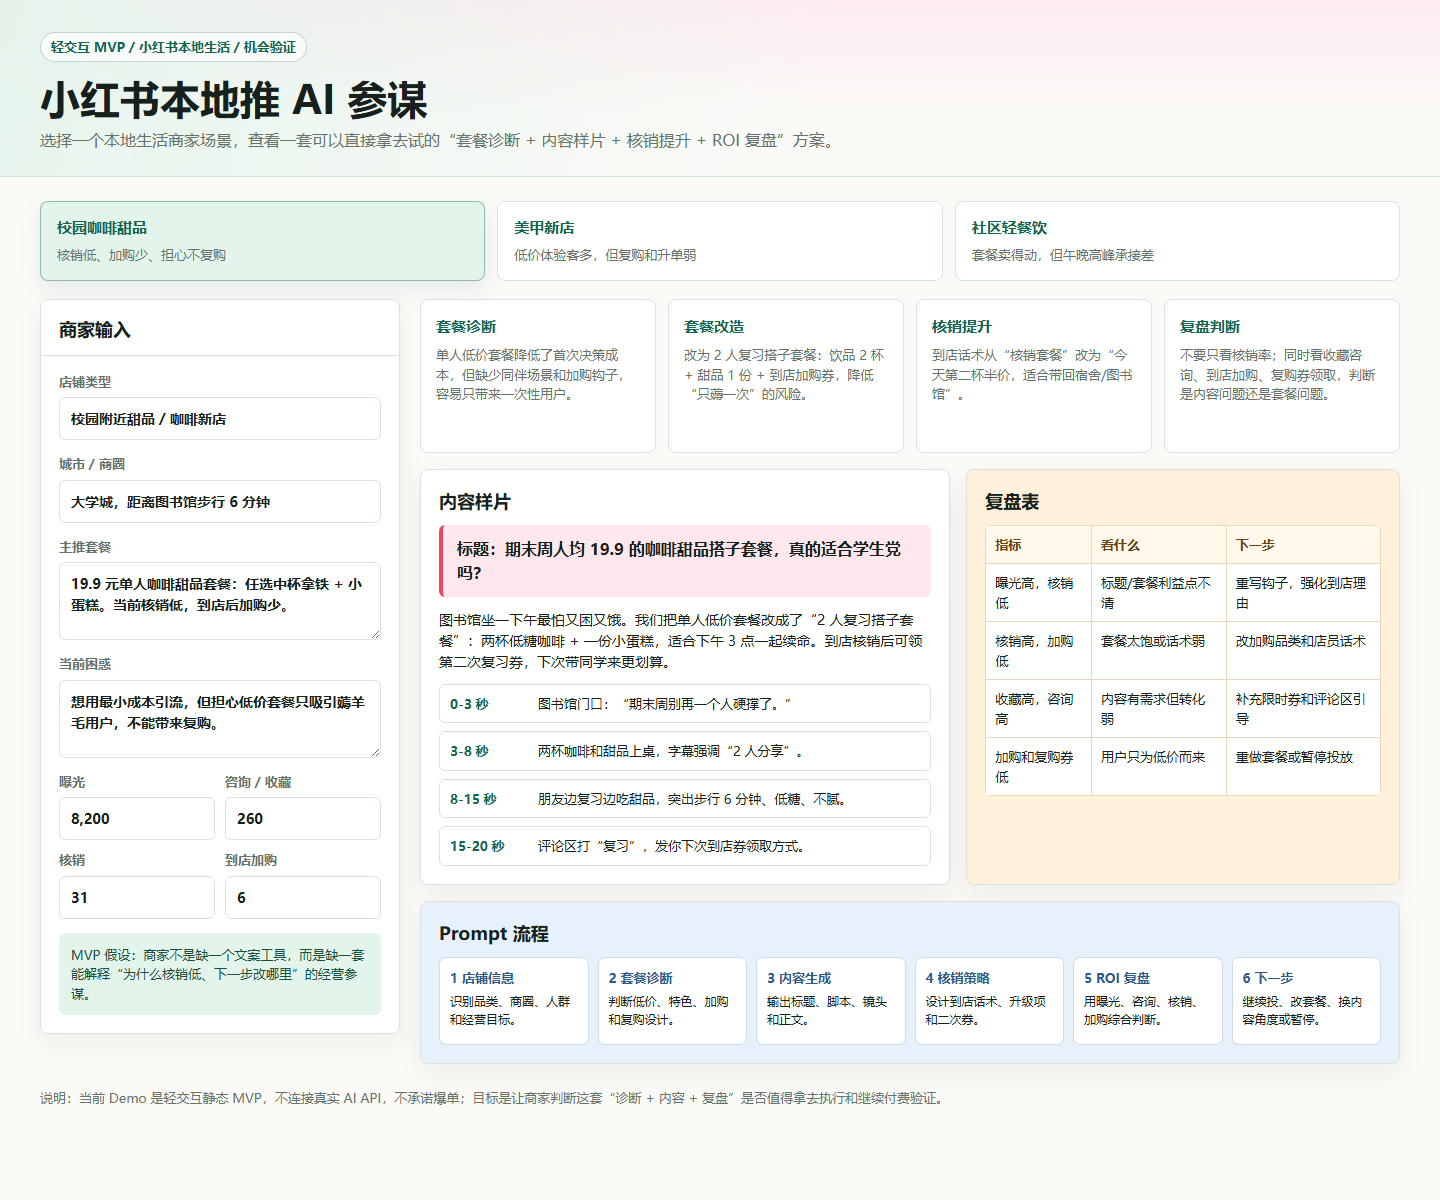
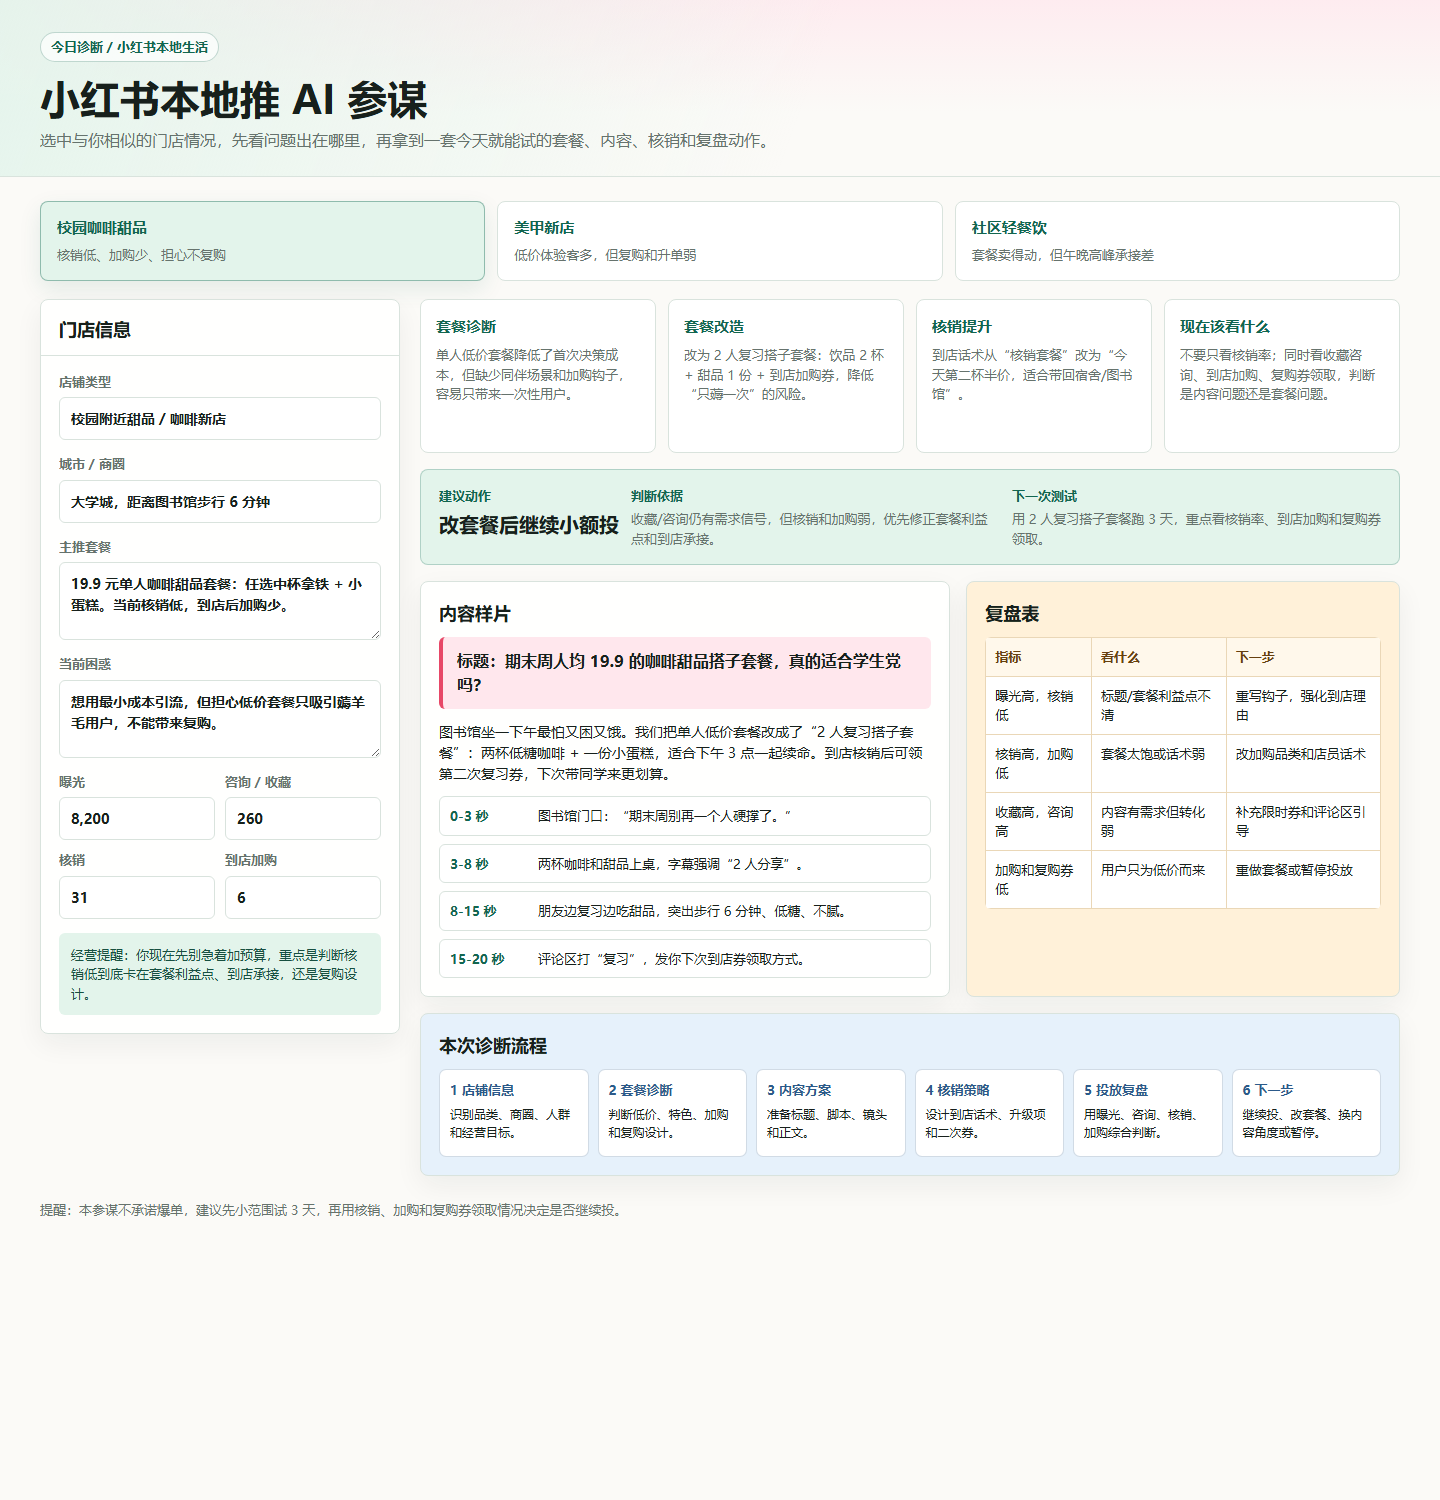
Make demo copy merchant-facing

diff --git a/demo.html b/demo.html
@@ -3,7 +3,7 @@
 <head>
   <meta charset="utf-8">
   <meta name="viewport" content="width=device-width, initial-scale=1">
-  <title>小红书本地推 AI 参谋 Demo</title>
+  <title>小红书本地推 AI 参谋</title>
   <style>
     * { box-sizing: border-box; }
     :root {
@@ -345,13 +345,13 @@
 </head>
 <body>
   <header>
-    <span class="kicker">轻交互 MVP / 小红书本地生活 / 机会验证</span>
+    <span class="kicker">今日诊断 / 小红书本地生活</span>
     <h1>小红书本地推 AI 参谋</h1>
-    <p class="sub">选择一个本地生活商家场景，查看一套可以直接拿去试的“套餐诊断 + 内容样片 + 核销提升 + ROI 复盘”方案。</p>
+    <p class="sub">选中与你相似的门店情况，先看问题出在哪里，再拿到一套今天就能试的套餐、内容、核销和复盘动作。</p>
   </header>
 
   <main>
-    <nav class="tabs" aria-label="商家案例">
+    <nav class="tabs" aria-label="门店场景">
       <button class="tab" data-case="coffee" aria-selected="true"><b>校园咖啡甜品</b><span>核销低、加购少、担心不复购</span></button>
       <button class="tab" data-case="nail" aria-selected="false"><b>美甲新店</b><span>低价体验客多，但复购和升单弱</span></button>
       <button class="tab" data-case="meal" aria-selected="false"><b>社区轻餐饮</b><span>套餐卖得动，但午晚高峰承接差</span></button>
@@ -359,7 +359,7 @@
 
     <section class="dashboard">
       <aside class="panel">
-        <h2>商家输入</h2>
+        <h2>门店信息</h2>
         <div class="form">
           <label>店铺类型
             <input id="storeType" readonly>
@@ -396,7 +396,7 @@
           <div class="card"><strong>套餐诊断</strong><p id="diagnosis"></p></div>
           <div class="card"><strong>套餐改造</strong><p id="packageFix"></p></div>
           <div class="card"><strong>核销提升</strong><p id="redeemFix"></p></div>
-          <div class="card"><strong>复盘判断</strong><p id="reviewLogic"></p></div>
+          <div class="card"><strong>现在该看什么</strong><p id="reviewLogic"></p></div>
         </div>
 
         <div class="decision">
@@ -423,20 +423,20 @@
         </div>
 
         <article class="panel workflow">
-          <h3>Prompt 流程</h3>
+          <h3>本次诊断流程</h3>
           <div class="steps">
             <div class="step"><b>1 店铺信息</b>识别品类、商圈、人群和经营目标。</div>
             <div class="step"><b>2 套餐诊断</b>判断低价、特色、加购和复购设计。</div>
-            <div class="step"><b>3 内容生成</b>输出标题、脚本、镜头和正文。</div>
+            <div class="step"><b>3 内容方案</b>准备标题、脚本、镜头和正文。</div>
             <div class="step"><b>4 核销策略</b>设计到店话术、升级项和二次券。</div>
-            <div class="step"><b>5 ROI 复盘</b>用曝光、咨询、核销、加购综合判断。</div>
+            <div class="step"><b>5 投放复盘</b>用曝光、咨询、核销、加购综合判断。</div>
             <div class="step"><b>6 下一步</b>继续投、改套餐、换内容角度或暂停。</div>
           </div>
         </article>
       </section>
     </section>
 
-    <footer>说明：当前 Demo 是轻交互静态 MVP，不连接真实 AI API，不承诺爆单；目标是让商家判断这套“诊断 + 内容 + 复盘”是否值得拿去执行和继续付费验证。</footer>
+    <footer>提醒：本参谋不承诺爆单，建议先小范围试 3 天，再用核销、加购和复购券领取情况决定是否继续投。</footer>
   </main>
 
   <script>
@@ -447,7 +447,7 @@
         offer: "19.9 元单人咖啡甜品套餐：任选中杯拿铁 + 小蛋糕。当前核销低，到店后加购少。",
         problem: "想用最小成本引流，但担心低价套餐只吸引薅羊毛用户，不能带来复购。",
         metrics: ["8,200", "260", "31", "6"],
-        hypothesis: "MVP 假设：商家不是缺一个文案工具，而是缺一套能解释“为什么核销低、下一步改哪里”的经营参谋。",
+        hypothesis: "经营提醒：你现在先别急着加预算，重点是判断核销低到底卡在套餐利益点、到店承接，还是复购设计。",
         diagnosis: "单人低价套餐降低了首次决策成本，但缺少同伴场景和加购钩子，容易只带来一次性用户。",
         packageFix: "改为 2 人复习搭子套餐：饮品 2 杯 + 甜品 1 份 + 到店加购券，降低“只薅一次”的风险。",
         redeemFix: "到店话术从“核销套餐”改为“今天第二杯半价，适合带回宿舍/图书馆”。",
@@ -478,7 +478,7 @@
         offer: "39.9 元单色美甲体验套餐。预约量不错，但用户到店后很少升级款式，也很少二次预约。",
         problem: "想用低价体验吸引新客，但担心用户只做一次基础款，后续没有复购价值。",
         metrics: ["5,600", "190", "44", "8"],
-        hypothesis: "MVP 假设：美甲店低价体验的关键不是更便宜，而是让用户在预约前就理解“基础款”和“升级款”的差别。",
+        hypothesis: "经营提醒：低价体验不是越便宜越好，先让用户在预约前看懂基础款和升级款的差别。",
         diagnosis: "低价单色套餐决策简单，但没有把设计能力、风格案例和升级理由讲清楚，到店后升单弱。",
         packageFix: "改为“通勤显白体验款 + 到店款式升级券”：基础款保留低门槛，首图展示 3 个可升级风格。",
         redeemFix: "预约确认时发送款式选择图；到店话术从“要不要升级”改为“你的手型更适合这两种显白方案”。",
@@ -509,7 +509,7 @@
         offer: "29.9 元双人粉面套餐：两碗招牌粉 + 小吃一份。套餐销量不错，但高峰期排队影响体验。",
         problem: "想继续做团购引流，但担心高峰期承接不了，差评影响后续自然流量。",
         metrics: ["9,400", "310", "86", "18"],
-        hypothesis: "MVP 假设：轻餐饮的复盘不能只看核销和营业额，还要看履约能力，否则流量越多越容易伤害口碑。",
+        hypothesis: "经营提醒：轻餐饮不能只看核销和营业额，也要看出餐、等位和差评，否则流量越多越容易伤害口碑。",
         diagnosis: "套餐本身能带动核销，但没有分流高峰时段，也没有把加购点设计成低压力品类。",
         packageFix: "改为“错峰双人套餐 + 晚市加购小吃券”：限制核销时段，保护高峰体验。",
         redeemFix: "评论区和详情页明确错峰可用；到店推荐饮品/小吃，不推荐制作慢的菜品。",